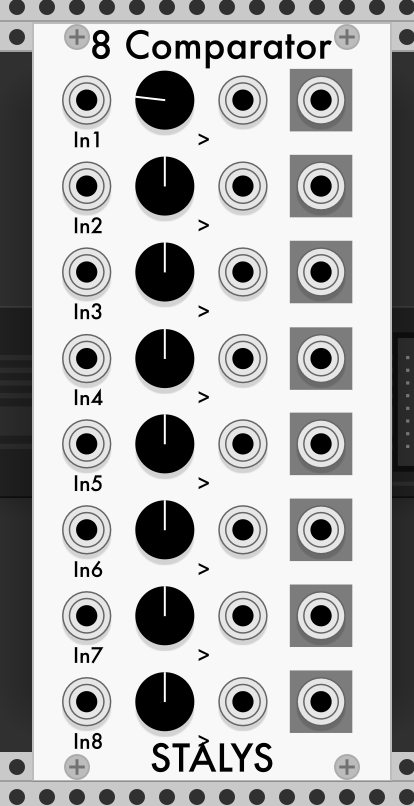
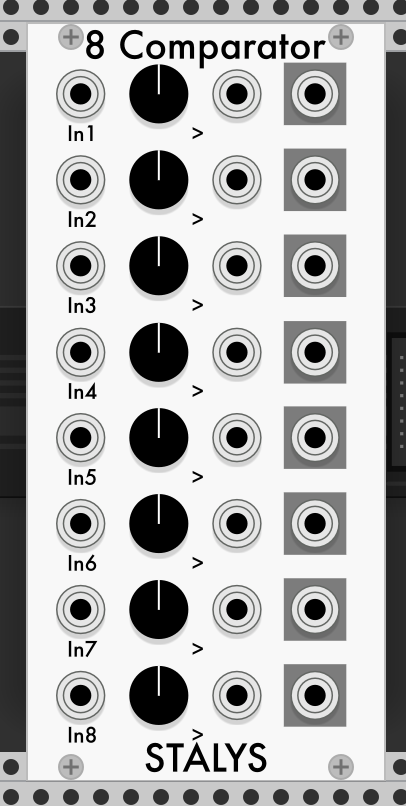
Fix alignment

diff --git a/src/Comparator.cpp b/src/Comparator.cpp
@@ -49,14 +49,14 @@ struct Comparator : Module {
 
 	Comparator() {
 		config(NUM_PARAMS, NUM_INPUTS, NUM_OUTPUTS, NUM_LIGHTS);
-		configParam(VALUE_LEVEL1_PARAM, -10.f, 10.f, 0.f, "");
-		configParam(VALUE_LEVEL2_PARAM, -10.f, 10.f, 0.f, "");
-		configParam(VALUE_LEVEL3_PARAM, -10.f, 10.f, 0.f, "");
-		configParam(VALUE_LEVEL4_PARAM, -10.f, 10.f, 0.f, "");
-		configParam(VALUE_LEVEL5_PARAM, -10.f, 10.f, 0.f, "");
-		configParam(VALUE_LEVEL6_PARAM, -10.f, 10.f, 0.f, "");
-		configParam(VALUE_LEVEL7_PARAM, -10.f, 10.f, 0.f, "");
-		configParam(VALUE_LEVEL8_PARAM, -10.f, 10.f, 0.f, "");
+		configParam(VALUE_LEVEL1_PARAM, -10.f, 10.f, 0.f, "Value1");
+		configParam(VALUE_LEVEL2_PARAM, -10.f, 10.f, 0.f, "Value2");
+		configParam(VALUE_LEVEL3_PARAM, -10.f, 10.f, 0.f, "Value3");
+		configParam(VALUE_LEVEL4_PARAM, -10.f, 10.f, 0.f, "Value4");
+		configParam(VALUE_LEVEL5_PARAM, -10.f, 10.f, 0.f, "Value5");
+		configParam(VALUE_LEVEL6_PARAM, -10.f, 10.f, 0.f, "Value6");
+		configParam(VALUE_LEVEL7_PARAM, -10.f, 10.f, 0.f, "Value7");
+		configParam(VALUE_LEVEL8_PARAM, -10.f, 10.f, 0.f, "Value8");
 	}
 
 	void process(const ProcessArgs& args) override {
@@ -91,40 +91,40 @@ struct ComparatorWidget : ModuleWidget {
 		addChild(createWidget<ScrewSilver>(Vec(RACK_GRID_WIDTH, RACK_GRID_HEIGHT - RACK_GRID_WIDTH)));
 		addChild(createWidget<ScrewSilver>(Vec(box.size.x - 2 * RACK_GRID_WIDTH, RACK_GRID_HEIGHT - RACK_GRID_WIDTH)));
 
-		addParam(createParamCentered<RoundBlackKnob>(mm2px(Vec(22.49, 13.229)), module, Comparator::VALUE_LEVEL1_PARAM));
-		addParam(createParamCentered<RoundBlackKnob>(mm2px(Vec(22.49, 27.781)), module, Comparator::VALUE_LEVEL2_PARAM));
-		addParam(createParamCentered<RoundBlackKnob>(mm2px(Vec(22.49, 42.333)), module, Comparator::VALUE_LEVEL3_PARAM));
-		addParam(createParamCentered<RoundBlackKnob>(mm2px(Vec(22.49, 56.993)), module, Comparator::VALUE_LEVEL4_PARAM));
-		addParam(createParamCentered<RoundBlackKnob>(mm2px(Vec(22.49, 71.437)), module, Comparator::VALUE_LEVEL5_PARAM));
-		addParam(createParamCentered<RoundBlackKnob>(mm2px(Vec(22.49, 85.99)), module, Comparator::VALUE_LEVEL6_PARAM));
-		addParam(createParamCentered<RoundBlackKnob>(mm2px(Vec(22.49, 100.542)), module, Comparator::VALUE_LEVEL7_PARAM));
-		addParam(createParamCentered<RoundBlackKnob>(mm2px(Vec(22.49, 115.094)), module, Comparator::VALUE_LEVEL8_PARAM));
+		addParam(createParamCentered<RoundBlackKnob>(mm2px(Vec(22.49, 12.171)), module, Comparator::VALUE_LEVEL1_PARAM));
+		addParam(createParamCentered<RoundBlackKnob>(mm2px(Vec(22.49, 26.723)), module, Comparator::VALUE_LEVEL2_PARAM));
+		addParam(createParamCentered<RoundBlackKnob>(mm2px(Vec(22.49, 41.275)), module, Comparator::VALUE_LEVEL3_PARAM));
+		addParam(createParamCentered<RoundBlackKnob>(mm2px(Vec(22.49, 55.935)), module, Comparator::VALUE_LEVEL4_PARAM));
+		addParam(createParamCentered<RoundBlackKnob>(mm2px(Vec(22.49, 70.379)), module, Comparator::VALUE_LEVEL5_PARAM));
+		addParam(createParamCentered<RoundBlackKnob>(mm2px(Vec(22.49, 84.931)), module, Comparator::VALUE_LEVEL6_PARAM));
+		addParam(createParamCentered<RoundBlackKnob>(mm2px(Vec(22.49, 99.483)), module, Comparator::VALUE_LEVEL7_PARAM));
+		addParam(createParamCentered<RoundBlackKnob>(mm2px(Vec(22.49, 114.035)), module, Comparator::VALUE_LEVEL8_PARAM));
 
-		addInput(createInputCentered<PJ301MPort>(mm2px(Vec(9.26, 13.229)), module, Comparator::SIGNAL1_INPUT));
-		addInput(createInputCentered<PJ301MPort>(mm2px(Vec(35.719, 13.229)), module, Comparator::VALUE1_INPUT));
-		addInput(createInputCentered<PJ301MPort>(mm2px(Vec(9.26, 27.781)), module, Comparator::SIGNAL2_INPUT));
-		addInput(createInputCentered<PJ301MPort>(mm2px(Vec(35.719, 27.781)), module, Comparator::VALUE2_INPUT));
-		addInput(createInputCentered<PJ301MPort>(mm2px(Vec(9.26, 42.333)), module, Comparator::SIGNAL3_INPUT));
-		addInput(createInputCentered<PJ301MPort>(mm2px(Vec(35.719, 42.333)), module, Comparator::VALUE3_INPUT));
-		addInput(createInputCentered<PJ301MPort>(mm2px(Vec(9.26, 56.993)), module, Comparator::SIGNAL4_INPUT));
-		addInput(createInputCentered<PJ301MPort>(mm2px(Vec(35.719, 56.993)), module, Comparator::VALUE4_INPUT));
-		addInput(createInputCentered<PJ301MPort>(mm2px(Vec(9.26, 71.437)), module, Comparator::SIGNAL5_INPUT));
-		addInput(createInputCentered<PJ301MPort>(mm2px(Vec(35.719, 71.438)), module, Comparator::VALUE5_INPUT));
-		addInput(createInputCentered<PJ301MPort>(mm2px(Vec(9.26, 85.99)), module, Comparator::SIGNAL6_INPUT));
-		addInput(createInputCentered<PJ301MPort>(mm2px(Vec(35.719, 85.99)), module, Comparator::VALUE6_INPUT));
-		addInput(createInputCentered<PJ301MPort>(mm2px(Vec(9.26, 100.542)), module, Comparator::SIGNAL7_INPUT));
-		addInput(createInputCentered<PJ301MPort>(mm2px(Vec(35.719, 100.542)), module, Comparator::VALUE7_INPUT));
-		addInput(createInputCentered<PJ301MPort>(mm2px(Vec(9.26, 115.094)), module, Comparator::SIGNAL8_INPUT));
-		addInput(createInputCentered<PJ301MPort>(mm2px(Vec(35.719, 115.094)), module, Comparator::VALUE8_INPUT));
+		addInput(createInputCentered<PJ301MPort>(mm2px(Vec(9.26, 12.171)), module, Comparator::SIGNAL1_INPUT));
+		addInput(createInputCentered<PJ301MPort>(mm2px(Vec(35.719, 12.171)), module, Comparator::VALUE1_INPUT));
+		addInput(createInputCentered<PJ301MPort>(mm2px(Vec(9.26, 26.723)), module, Comparator::SIGNAL2_INPUT));
+		addInput(createInputCentered<PJ301MPort>(mm2px(Vec(35.719, 26.723)), module, Comparator::VALUE2_INPUT));
+		addInput(createInputCentered<PJ301MPort>(mm2px(Vec(9.26, 41.275)), module, Comparator::SIGNAL3_INPUT));
+		addInput(createInputCentered<PJ301MPort>(mm2px(Vec(35.719, 41.275)), module, Comparator::VALUE3_INPUT));
+		addInput(createInputCentered<PJ301MPort>(mm2px(Vec(9.26, 55.935)), module, Comparator::SIGNAL4_INPUT));
+		addInput(createInputCentered<PJ301MPort>(mm2px(Vec(35.719, 55.935)), module, Comparator::VALUE4_INPUT));
+		addInput(createInputCentered<PJ301MPort>(mm2px(Vec(9.26, 70.379)), module, Comparator::SIGNAL5_INPUT));
+		addInput(createInputCentered<PJ301MPort>(mm2px(Vec(35.719, 70.379)), module, Comparator::VALUE5_INPUT));
+		addInput(createInputCentered<PJ301MPort>(mm2px(Vec(9.26, 84.931)), module, Comparator::SIGNAL6_INPUT));
+		addInput(createInputCentered<PJ301MPort>(mm2px(Vec(35.719, 84.931)), module, Comparator::VALUE6_INPUT));
+		addInput(createInputCentered<PJ301MPort>(mm2px(Vec(9.26, 99.483)), module, Comparator::SIGNAL7_INPUT));
+		addInput(createInputCentered<PJ301MPort>(mm2px(Vec(35.719, 99.483)), module, Comparator::VALUE7_INPUT));
+		addInput(createInputCentered<PJ301MPort>(mm2px(Vec(9.26, 114.035)), module, Comparator::SIGNAL8_INPUT));
+		addInput(createInputCentered<PJ301MPort>(mm2px(Vec(35.719, 114.035)), module, Comparator::VALUE8_INPUT));
 
-		addOutput(createOutputCentered<PJ301MPort>(mm2px(Vec(48.948, 13.229)), module, Comparator::OUT1_OUTPUT));
-		addOutput(createOutputCentered<PJ301MPort>(mm2px(Vec(48.948, 27.781)), module, Comparator::OUT2_OUTPUT));
-		addOutput(createOutputCentered<PJ301MPort>(mm2px(Vec(48.948, 42.333)), module, Comparator::OUT3_OUTPUT));
-		addOutput(createOutputCentered<PJ301MPort>(mm2px(Vec(48.948, 56.993)), module, Comparator::OUT4_OUTPUT));
-		addOutput(createOutputCentered<PJ301MPort>(mm2px(Vec(48.948, 71.437)), module, Comparator::OUT5_OUTPUT));
-		addOutput(createOutputCentered<PJ301MPort>(mm2px(Vec(48.948, 85.99)), module, Comparator::OUT6_OUTPUT));
-		addOutput(createOutputCentered<PJ301MPort>(mm2px(Vec(48.948, 100.542)), module, Comparator::OUT7_OUTPUT));
-		addOutput(createOutputCentered<PJ301MPort>(mm2px(Vec(48.948, 115.094)), module, Comparator::OUT8_OUTPUT));
+		addOutput(createOutputCentered<PJ301MPort>(mm2px(Vec(48.948, 12.171)), module, Comparator::OUT1_OUTPUT));
+		addOutput(createOutputCentered<PJ301MPort>(mm2px(Vec(48.948, 26.723)), module, Comparator::OUT2_OUTPUT));
+		addOutput(createOutputCentered<PJ301MPort>(mm2px(Vec(48.948, 41.275)), module, Comparator::OUT3_OUTPUT));
+		addOutput(createOutputCentered<PJ301MPort>(mm2px(Vec(48.948, 55.935)), module, Comparator::OUT4_OUTPUT));
+		addOutput(createOutputCentered<PJ301MPort>(mm2px(Vec(48.948, 70.379)), module, Comparator::OUT5_OUTPUT));
+		addOutput(createOutputCentered<PJ301MPort>(mm2px(Vec(48.948, 84.931)), module, Comparator::OUT6_OUTPUT));
+		addOutput(createOutputCentered<PJ301MPort>(mm2px(Vec(48.948, 99.483)), module, Comparator::OUT7_OUTPUT));
+		addOutput(createOutputCentered<PJ301MPort>(mm2px(Vec(48.948, 114.035)), module, Comparator::OUT8_OUTPUT));
 	}
 };
 
